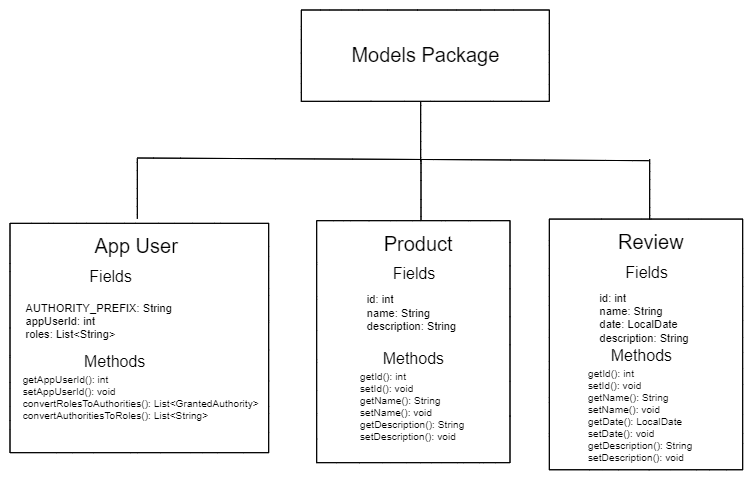
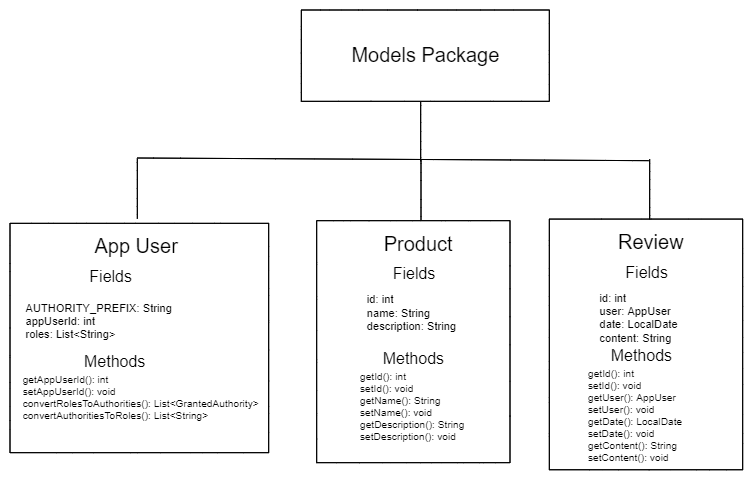
Created AppUser, Review, Product models

diff --git a/product-reviews/product-reviews/src/main/java/learn/productReviews/models/AppUser.java b/product-reviews/product-reviews/src/main/java/learn/productReviews/models/AppUser.java
@@ -1,4 +1,50 @@
 package learn.productReviews.models;
 
-public class AppUser {
+import org.springframework.security.core.GrantedAuthority;
+import org.springframework.security.core.authority.SimpleGrantedAuthority;
+import org.springframework.security.core.userdetails.User;
+import org.springframework.util.Assert;
+
+import java.util.ArrayList;
+import java.util.Collection;
+import java.util.List;
+import java.util.stream.Collectors;
+
+public class AppUser extends User {
+
+    private static final String AUTHORITY_PREFIX = "ROLE_";
+    private int appUserId;
+    private List<String> roles = new ArrayList<>();
+
+    public AppUser(int appUserId, String username, String password,
+                   boolean disabled, List<String> roles) {
+        super(username, password, !disabled,
+                true, true, true,
+                convertRolesToAuthorities(roles));
+        this.appUserId = appUserId;
+    }
+
+    public int getAppUserId() {
+        return appUserId;
+    }
+    public void setAppUserId(int appUserId) {
+        this.appUserId = appUserId;
+    }
+    public static List<GrantedAuthority> convertRolesToAuthorities(List<String> roles) {
+        List<GrantedAuthority> authorities = new ArrayList<>(roles.size());
+        for (String role : roles) {
+            Assert.isTrue(!role.startsWith(AUTHORITY_PREFIX),
+                    () ->
+                            String.
+                                    format("%s cannot start with %s (it is automatically added)",
+                                            role, AUTHORITY_PREFIX));
+            authorities.add(new SimpleGrantedAuthority(AUTHORITY_PREFIX + role));
+        }
+        return authorities;
+    }
+    public static List<String> convertAuthoritiesToRoles(Collection<GrantedAuthority> authorities) {
+        return authorities.stream()
+                .map(a -> a.getAuthority().substring(AUTHORITY_PREFIX.length()))
+                .collect(Collectors.toList());
+    }
 }

diff --git a/product-reviews/product-reviews/src/main/java/learn/productReviews/models/Review.java b/product-reviews/product-reviews/src/main/java/learn/productReviews/models/Review.java
@@ -1,4 +1,53 @@
 package learn.productReviews.models;
 
+import java.time.LocalDate;
+
 public class Review {
+
+    private int id;
+    private AppUser user;
+    private LocalDate date;
+    private String content;
+
+    public Review() {
+    }
+
+    public Review(int id, AppUser user, LocalDate date, String content) {
+        this.id = id;
+        this.user = user;
+        this.date = date;
+        this.content = content;
+    }
+
+    public int getId() {
+        return id;
+    }
+
+    public void setId(int id) {
+        this.id = id;
+    }
+
+    public AppUser getUser() {
+        return user;
+    }
+
+    public void setUser(AppUser user) {
+        this.user = user;
+    }
+
+    public LocalDate getDate() {
+        return date;
+    }
+
+    public void setDate(LocalDate date) {
+        this.date = date;
+    }
+
+    public String getContent() {
+        return content;
+    }
+
+    public void setContent(String content) {
+        this.content = content;
+    }
 }

diff --git a/product-reviews/product-reviews/src/main/java/learn/productReviews/models/Product.java b/product-reviews/product-reviews/src/main/java/learn/productReviews/models/Product.java
@@ -1,4 +1,41 @@
 package learn.productReviews.models;
 
 public class Product {
+
+    private int id;
+    private String name;
+    private String description;
+
+    public Product() {
+    }
+
+    public Product(int id, String name, String description) {
+        this.id = id;
+        this.name = name;
+        this.description = description;
+    }
+
+    public int getId() {
+        return id;
+    }
+
+    public void setId(int id) {
+        this.id = id;
+    }
+
+    public String getName() {
+        return name;
+    }
+
+    public void setName(String name) {
+        this.name = name;
+    }
+
+    public String getDescription() {
+        return description;
+    }
+
+    public void setDescription(String description) {
+        this.description = description;
+    }
 }

diff --git a/product-reviews/product-reviews/src/main/java/learn/productReviews/App.java b/product-reviews/product-reviews/src/main/java/learn/productReviews/App.java
@@ -5,6 +5,7 @@ import org.springframework.boot.autoconfigure.SpringBootApplication;
 
 @SpringBootApplication
 public class App {
+
     public static void main(String[] args) {
         SpringApplication.run(App.class, args);
     }

diff --git a/product-reviews/product-reviews/src/main/java/learn/productReviews/AppConfig.java b/product-reviews/product-reviews/src/main/java/learn/productReviews/AppConfig.java
@@ -9,6 +9,7 @@ import org.springframework.web.servlet.config.annotation.WebMvcConfigurer;
 
 @Configuration
 public class AppConfig {
+
     @Bean
     public PasswordEncoder getEncoder(){
         return new BCryptPasswordEncoder();
